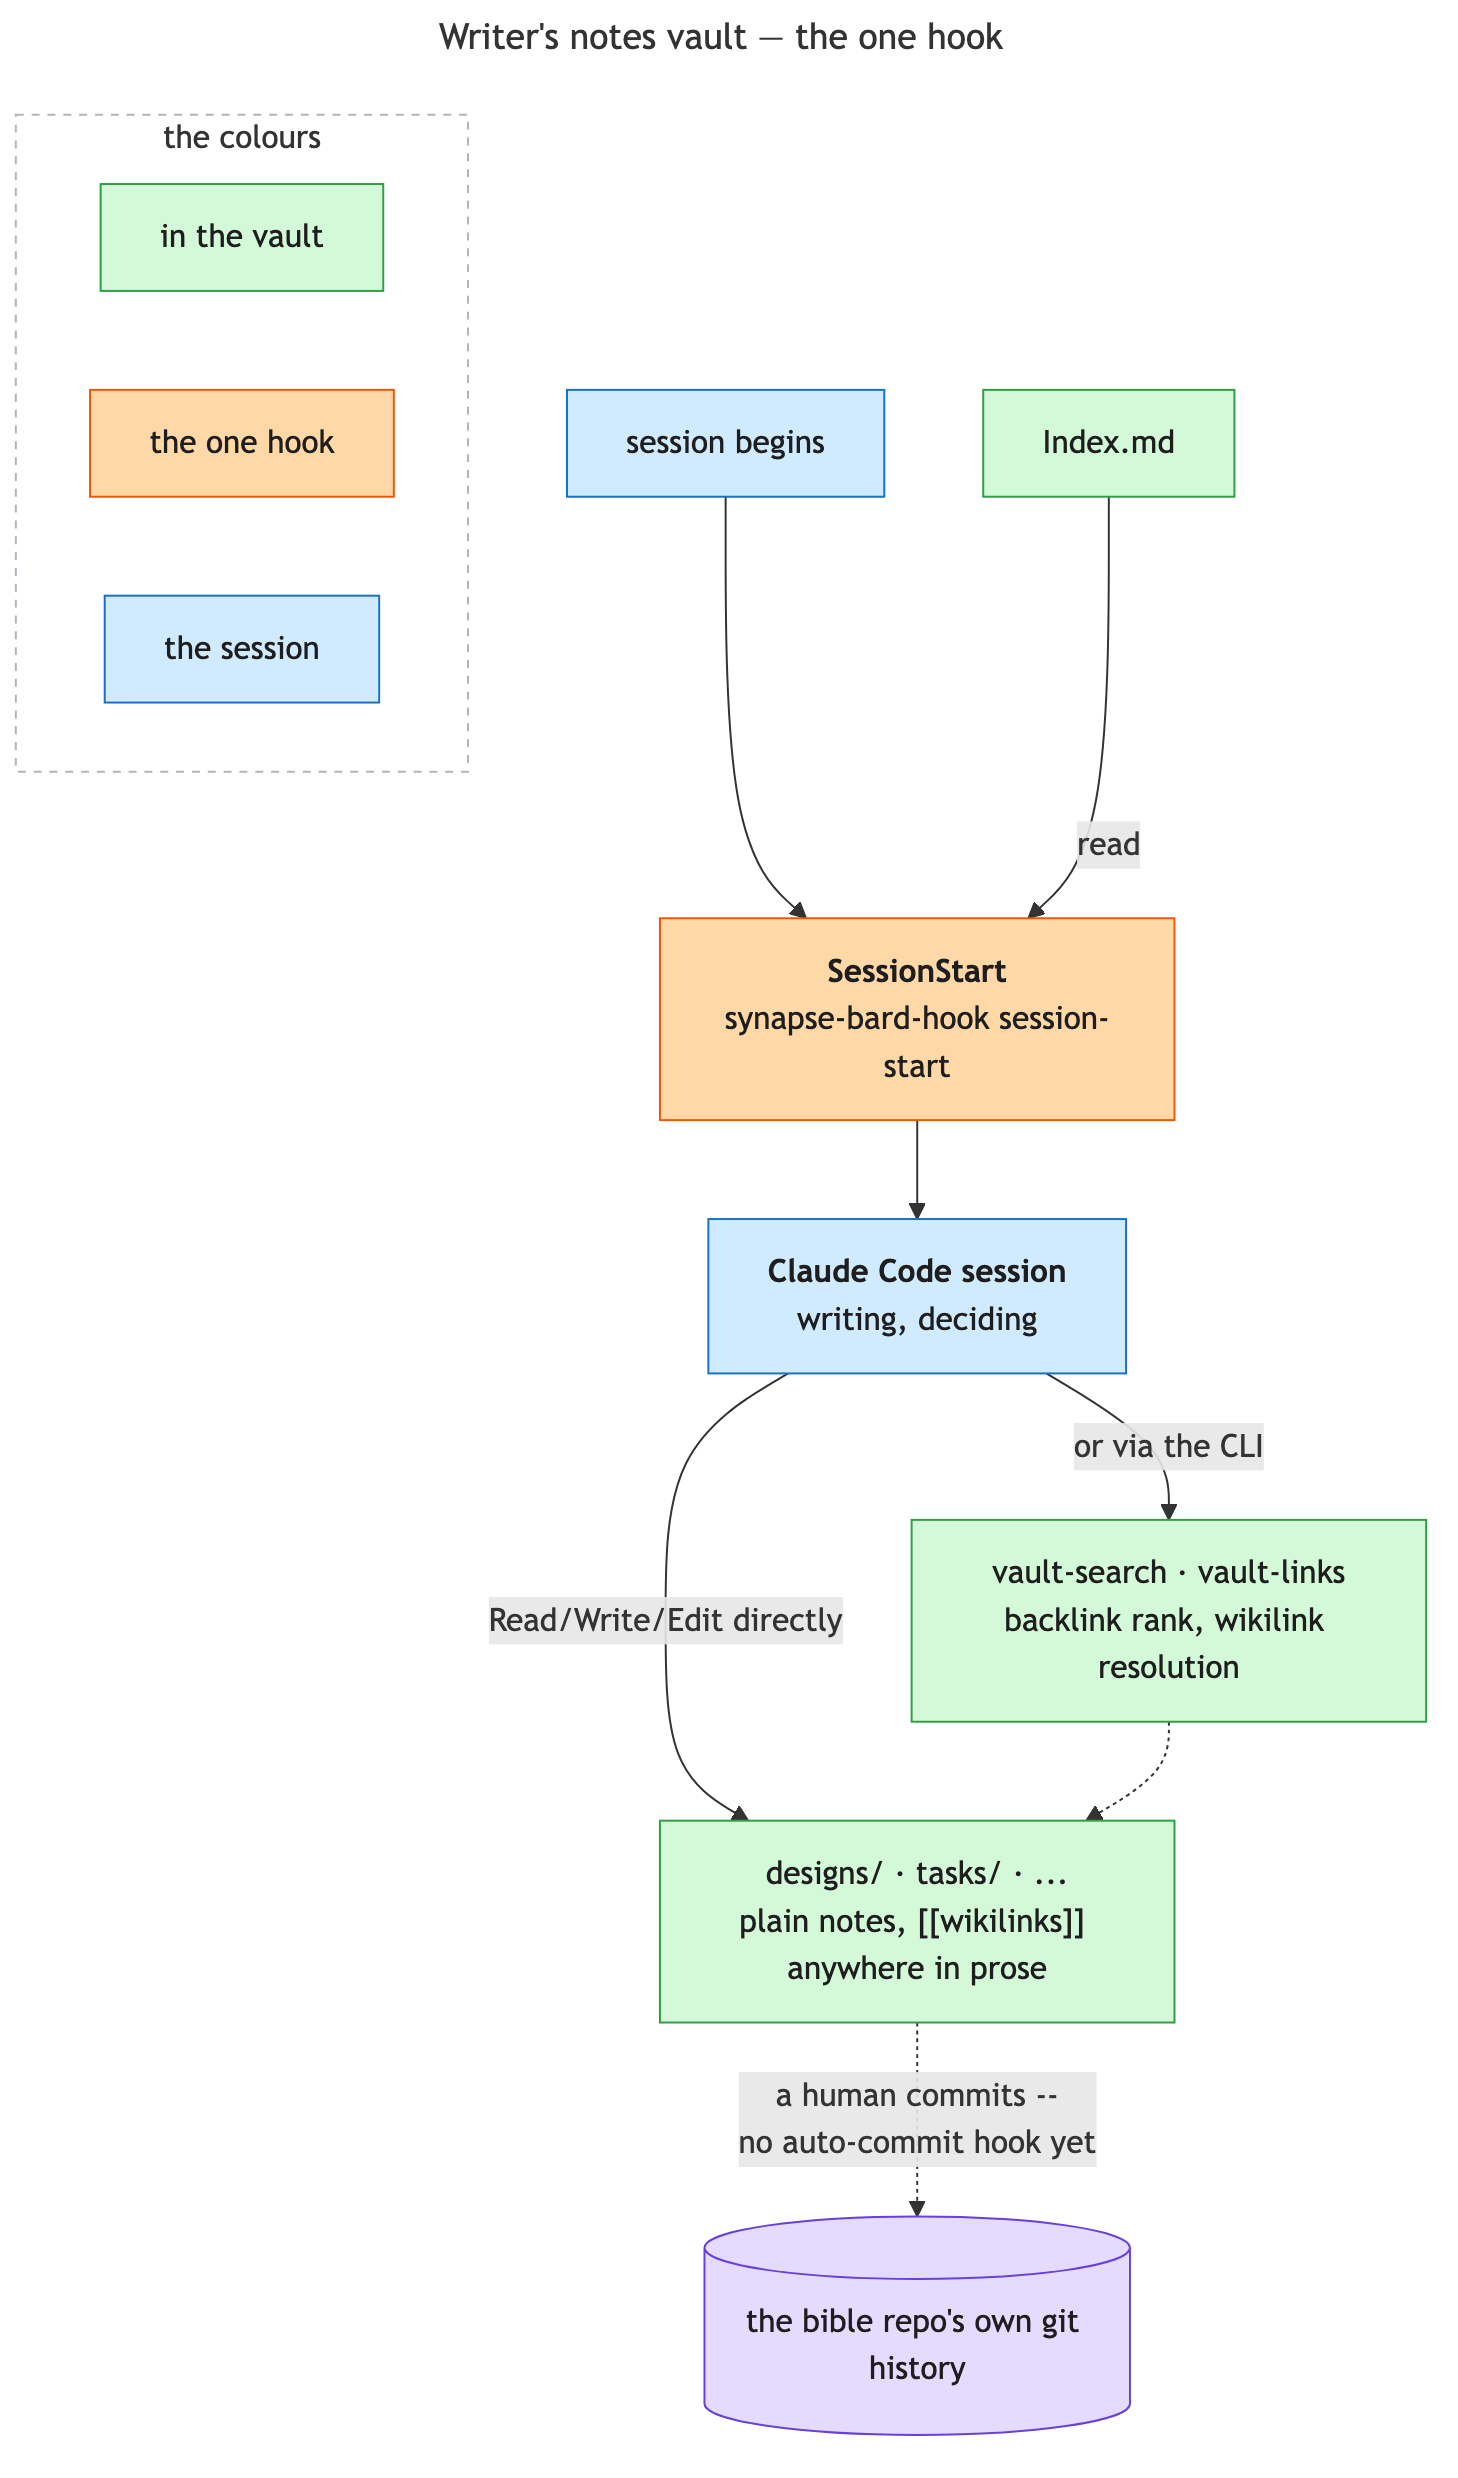
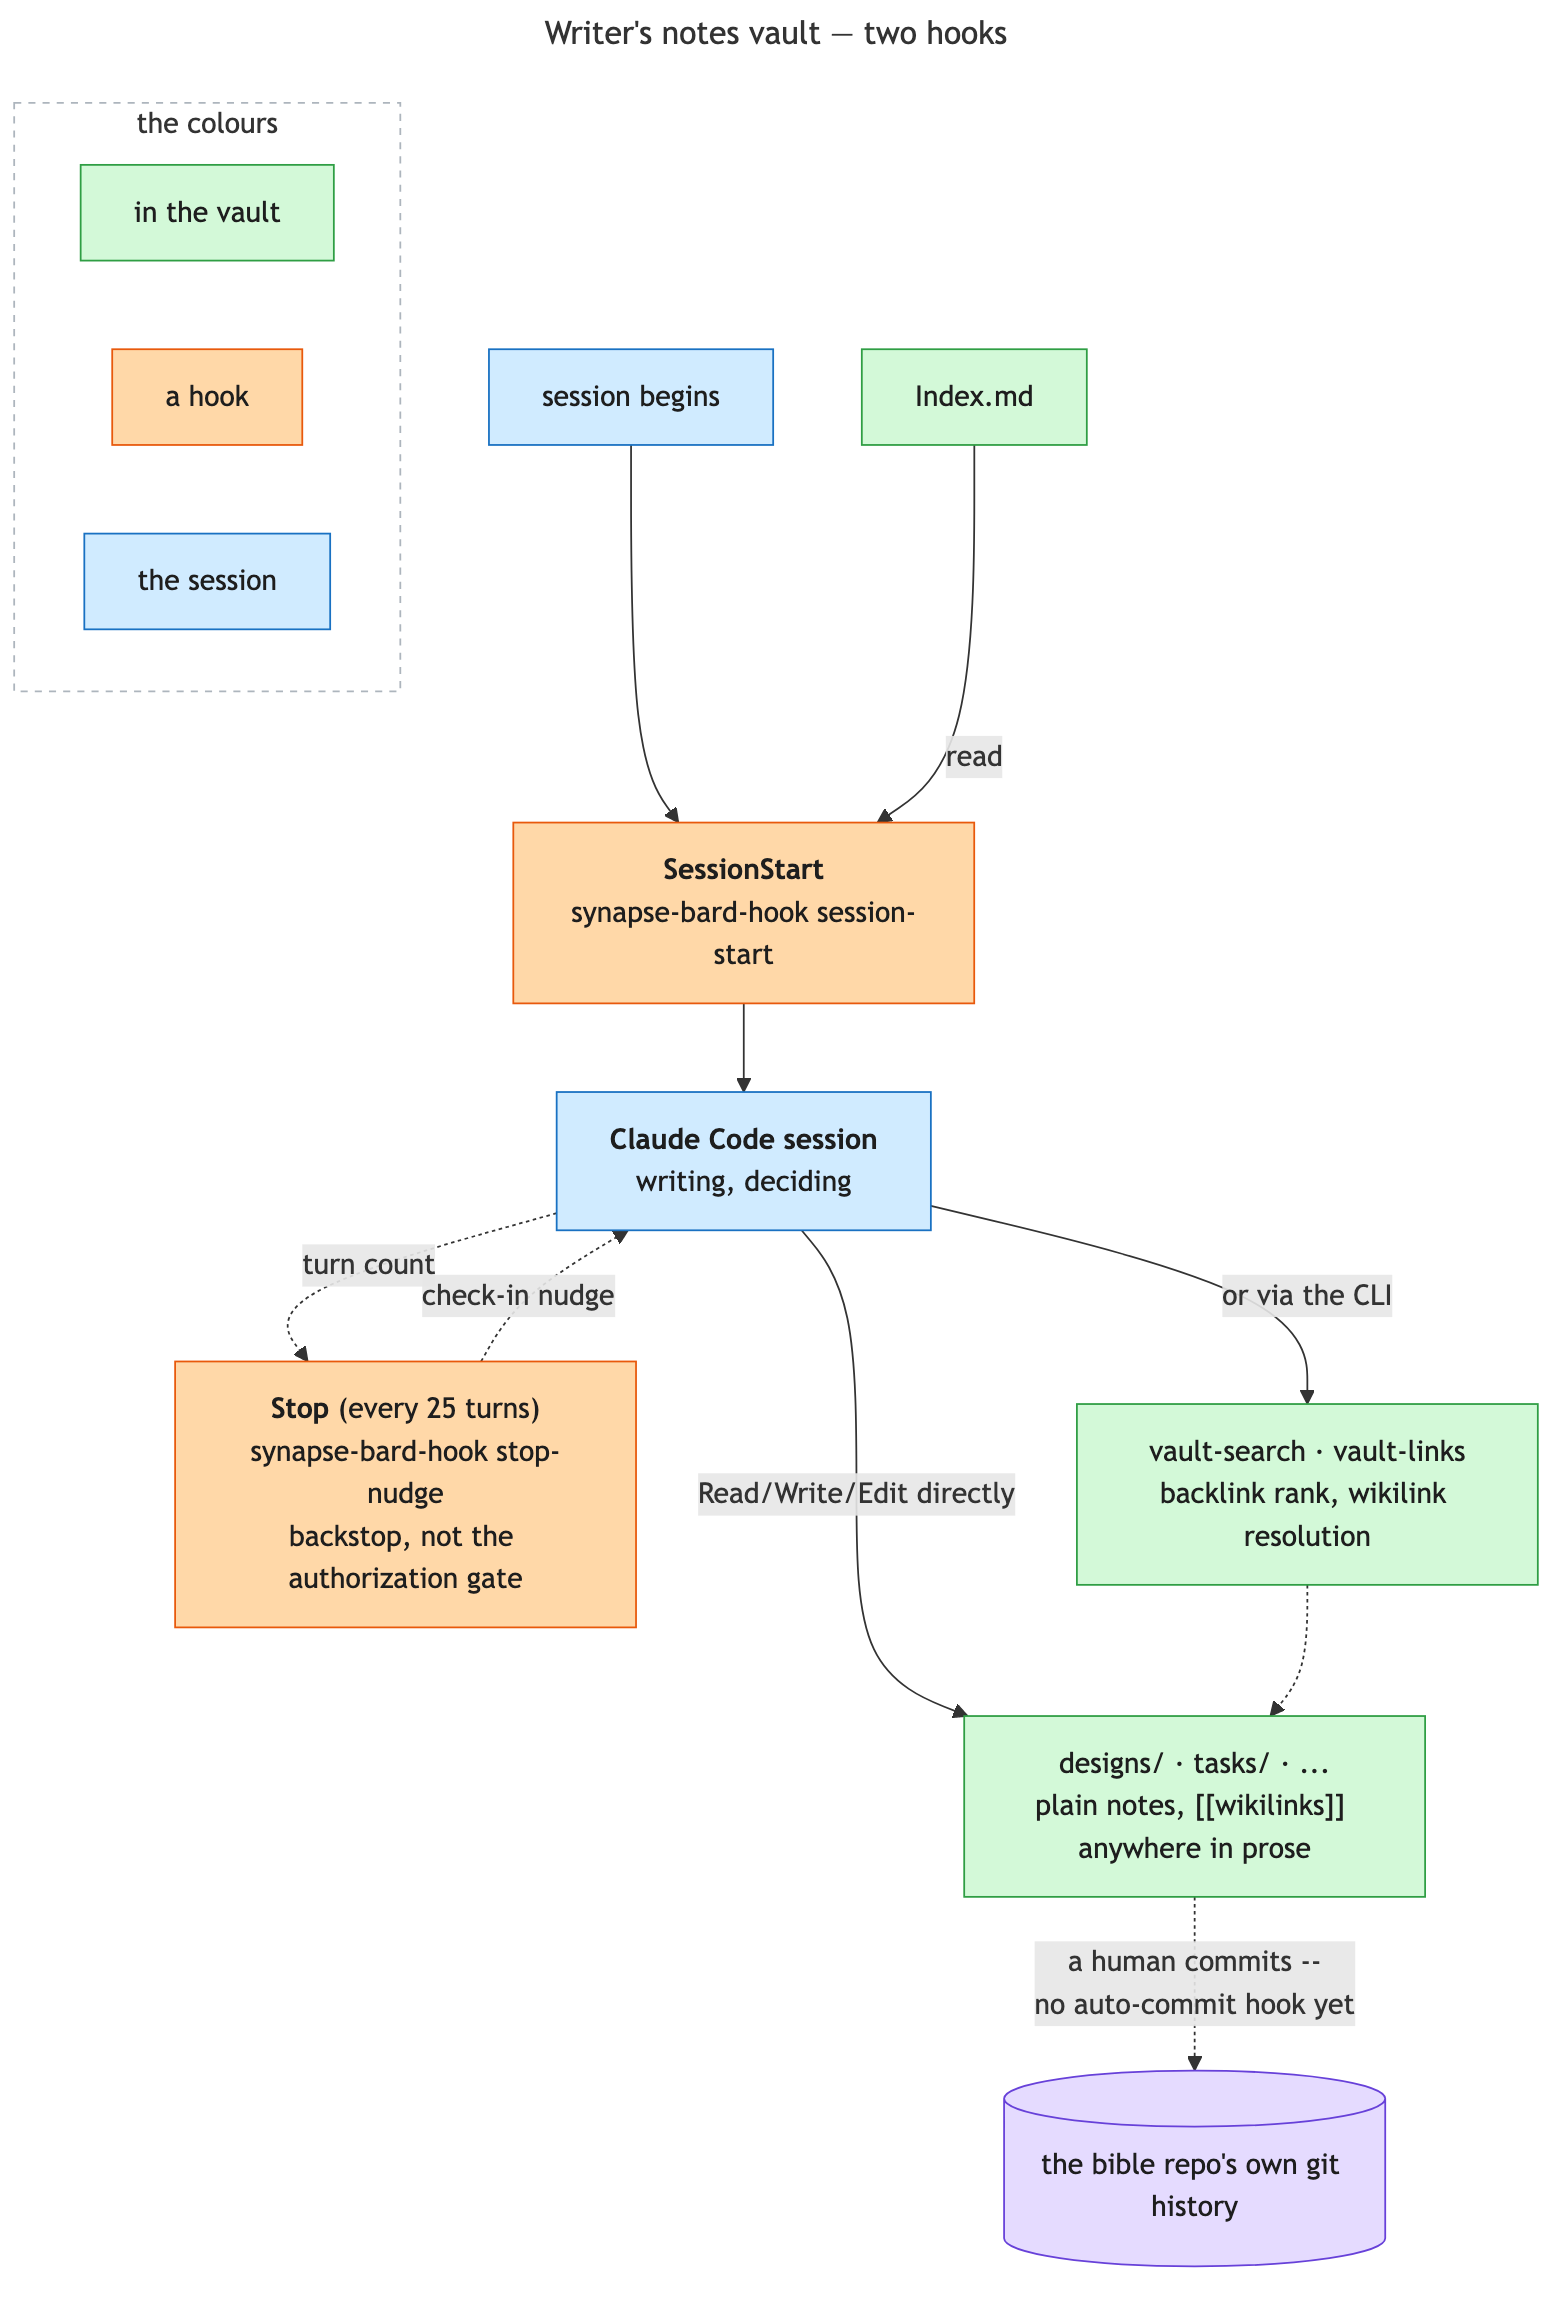
feat(synapse-bard): proactive vault-writing fixes for a drifting session
Adds a Stop-hook periodic nudge (mirroring synapse-hook's own shape) so a
long session gets re-prompted about writing to the vault, not just once at
SessionStart. Moves _bard/vault/Index.md seeding into `sync` itself,
mechanical and unconfirmed, closing a real gap for a repo where bard's
.claude/ files were committed directly rather than installed through
Claude Code's plugin system (CLAUDE_PLUGIN_ROOT is unset there, so the old
conversational seed-offer would never have worked). Rewords the
hook-as-backstop framing in synapse-bard-claude.md and, since the text is
shared, synapse-claude.md.

diff --git a/docs/synapse-bard/bard-vault.md b/docs/synapse-bard/bard-vault.md
@@ -7,7 +7,7 @@ session shouldn't have to silently re-derive or lose. `_bard/vault/` is where th
 decision-level layer lives: plain markdown files, git-tracked, in the same repo and session already
 in use for everything else.
 
-![The one hook](diagrams/bard-vault-overview.png)
+![The two hooks](diagrams/bard-vault-overview.png)
 
 ## Why repo-local, and not a hosted vault on another machine
 
@@ -32,26 +32,33 @@ five-folder taxonomy mapped onto fiction writing (`projects/` → per-book/scene
 the writing agent grows the rest organically through actual use. `Index.md` at the vault root is
 the one file excluded from every listing and search — bootstrap, not a note.
 
-## The one hook: `SessionStart`
+## Two hooks: `SessionStart` and a periodic `Stop` check-in
 
-Gated on `_bard/` already existing at the repo root — nothing here creates it, so its absence means
-bard has never been deliberately used in this repo. A repo with no fiction bible at all, the plugin
-merely installed, gets no injection at all.
+Both gated on `_bard/` already existing at the repo root — nothing here creates it, so its absence
+means bard has never been deliberately used in this repo. A repo with no fiction bible at all, the
+plugin merely installed, gets no injection at all.
 
 Once `_bard/` exists, `synapse-bard-hook session-start` injects two pieces, joined with a blank
 line, nothing emitted at all if both are empty: the plugin's own standing instructions
 (`synapse-bard-claude.md`) and `_bard/vault/Index.md` itself, so its folder layout is live
-information from turn one. If no `Index.md` exists yet — a repo where `synapse-bard sync` created
-`_bard/graph/` but the vault side was never touched — the hook offers to seed one from the plugin's
-shipped `Index.md.template` rather than writing it unasked.
+information from turn one. `synapse-bard sync` seeds `Index.md` from the shipped template
+automatically the first time it runs in a repo, so this normally already exists; the rare case
+where it doesn't (a repo synced before that existed, or `_bard/graph/` created some other way) is
+what this hook's fallback message covers.
 
-Deliberately simple: `_bard/vault/` is always repo-relative, so there's no external config file to
-resolve, no cross-repo namespace to catalogue, no remote to verify before a write. There's also
-no `Stop`-hook nudge and no per-prompt injection — and the one gap worth naming plainly:
-**no auto-commit hook**. `_bard/vault/` is git-tracked the same as any other part of the repo, but
-nothing commits it automatically. An uncommitted mistake here is only as recoverable as the
-session's own file history or a human's deliberate `git commit`; a committed one is one
-`git show <sha>:<path>` away,
+`synapse-bard-hook stop-nudge` fires on `Stop`, every 25 turns, and re-raises the same question:
+did anything since the last check-in belong in the vault? This is a backstop for a session that
+runs long and drifts, not the trigger that authorizes writing in the first place — the standing
+instruction to write proactively lives in `synapse-bard-claude.md` and applies on its own
+initiative regardless of whether a hook is even wired up, since the Android app's default cloud
+session has no `Stop` hook at all.
+
+Deliberately simple otherwise: `_bard/vault/` is always repo-relative, so there's no external
+config file to resolve, no cross-repo namespace to catalogue, no remote to verify before a write.
+There's also no per-prompt injection — and the one gap worth naming plainly: **no auto-commit
+hook**. `_bard/vault/` is git-tracked the same as any other part of the repo, but nothing commits
+it automatically. An uncommitted mistake here is only as recoverable as the session's own file
+history or a human's deliberate `git commit`; a committed one is one `git show <sha>:<path>` away,
 same as any other tracked file. If a destructive edit is about to happen and nothing's been
 committed recently, that's worth saying before proceeding, not after.
 

diff --git a/docs/synapse-bard/cli.md b/docs/synapse-bard/cli.md
@@ -140,4 +140,5 @@ any check found something.
 usage: synapse-bard-hook <hook>
 
   session-start    SessionStart: inject _bard/vault/Index.md
+  stop-nudge       Stop: periodic "worth writing to the vault" check-in
 ```
